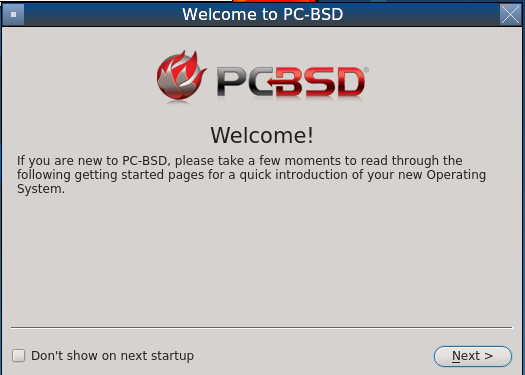
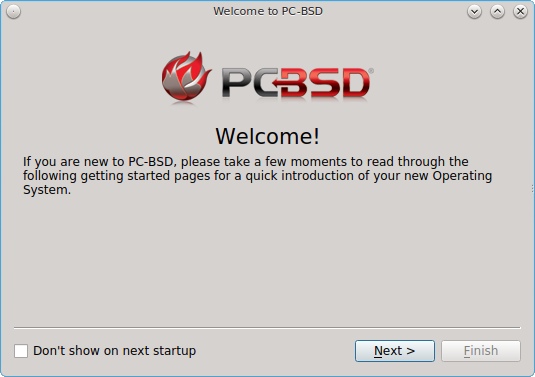
Update welcome screenshot and note new Mount Tray feature.

Changed region(s): [[0.0, 0.0, 1.0, 1.0], [0.2743, 0.1173, 0.701, 0.264], [0.3962, 0.3227, 0.6095, 0.3813]]

diff --git a/src-qt5/docs/introduction.rst b/src-qt5/docs/introduction.rst
@@ -204,12 +204,15 @@ The following features or enhancements were introduced for PC-BSD® 10.1.2:
 
 * :ref:`PersonaCrypt` devices can be intialized and managed from :menuselection:`Control Panel --> User Manager --> Advanced Mode`.
 
+* :ref:`Mount Tray` will automatically detect ZFS-formatted removable drives, providing the ability to import or export the ZFS pools from those devices when prompted, just
+  like any other removable device.
+
 * The **list-audiodev**,
   **usingtormode**,
   **setdefaultaudiodevice**, and
   **setscreenbrightness** options have been added to :ref:`pc-sysconfig`.
 
-* IPFW is now the default firewall. :ref:`Firewall Manager` has been redesigned to use IPFW and its UI has been simplified to make it easier to use.
+* IPFW is now the default firewall as it provides support for VIMAGE. :ref:`Firewall Manager` has been redesigned to use IPFW and its UI has been simplified to make it easier to use.
 
 * The "Scrub schedule" screen has been added to the :ref:`Life Preserver` setup wizard and the Life Preserver "Configure" screen.
 
